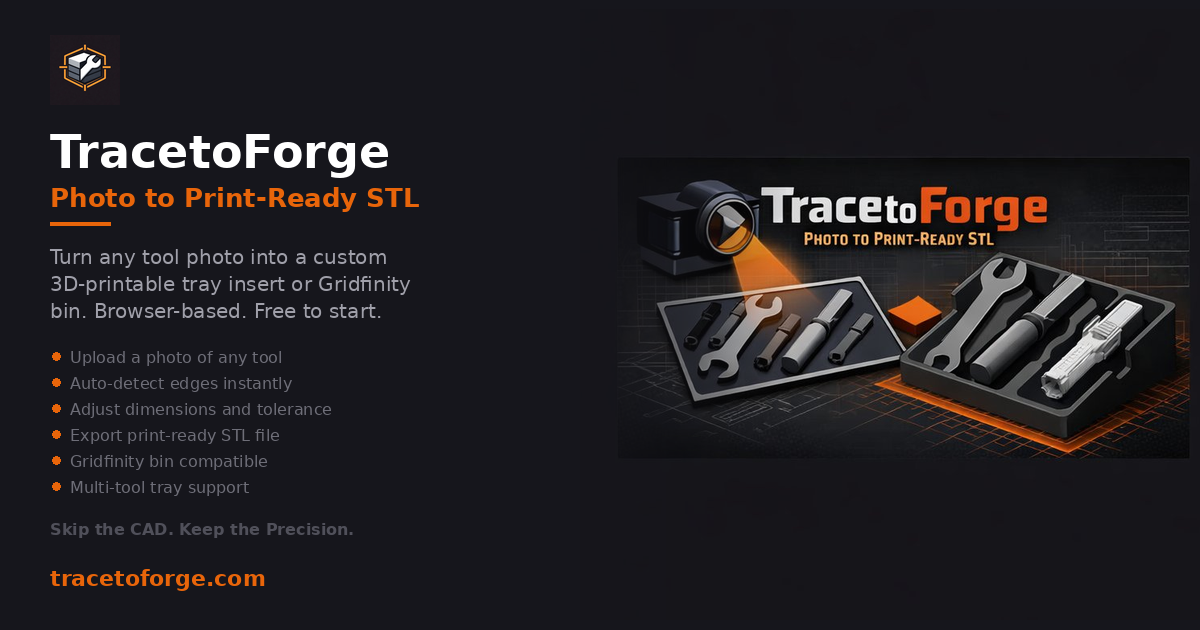
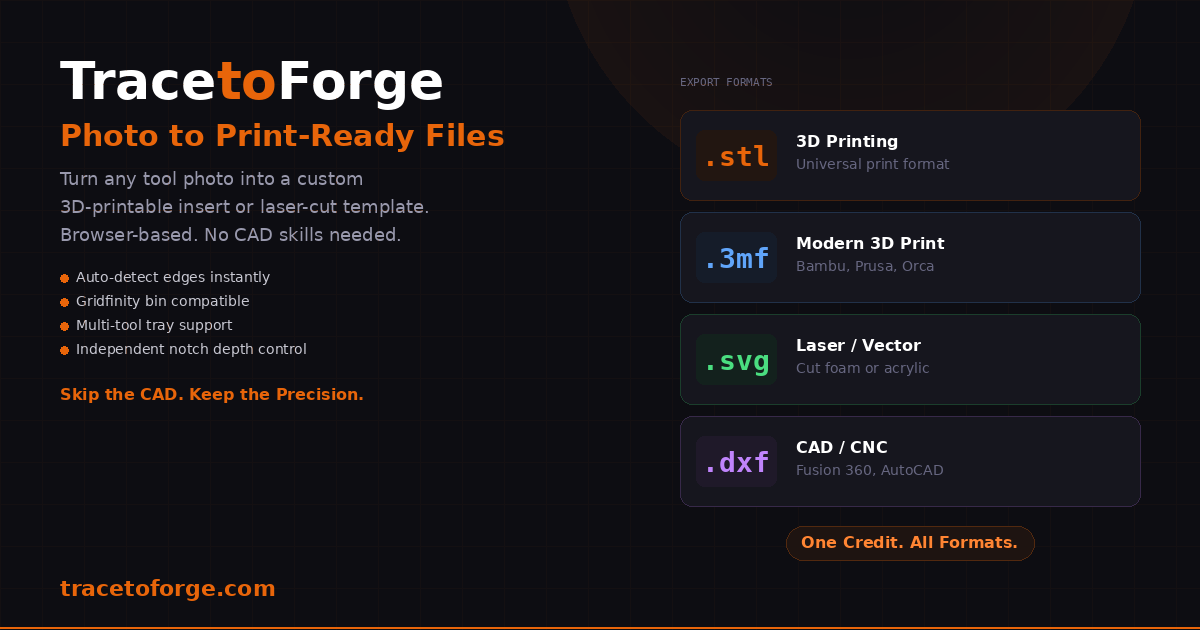
New OG image + updated meta tags for multi-format exports
- New OG image showcasing all 4 export formats (STL, 3MF, SVG, DXF)
- Updated meta description, keywords, OG tags, Twitter card
- Added format-specific SEO keywords (3MF, DXF laser cut, SVG foam)

diff --git a/dist/index.html b/dist/index.html
@@ -7,8 +7,8 @@
     <link rel="apple-touch-icon" href="/icon-512.png" />
     <meta name="viewport" content="width=device-width, initial-scale=1.0" />
     <title>Turn Tool Photos into 3D Printable Inserts | TracetoForge</title>
-    <meta name="description" content="Snap a photo of any tool, auto-trace the outline, and export a print-ready STL tray insert or Gridfinity bin in minutes. No CAD skills needed. Free browser-based 3D print file generator for custom tool organizers, foam replacements, and workshop storage." />
-    <meta name="keywords" content="3D print tool organizer, custom tray insert, Gridfinity bin generator, STL file maker, tool foam insert replacement, photo to STL, tool shadow board, workshop organization, 3D printed tool holder, Milwaukee Packout insert, tool chest organizer, CNC tool tray, custom foam alternative, Gridfinity tool storage, trace tool outline 3D print" />
+    <meta name="description" content="Snap a photo of any tool, auto-trace the outline, and export print-ready STL, 3MF, SVG, or DXF files. Custom tray inserts, Gridfinity bins, laser-cut foam templates in minutes. No CAD skills needed. Free browser-based tool organizer generator." />
+    <meta name="keywords" content="3D print tool organizer, custom tray insert, Gridfinity bin generator, STL file maker, 3MF export, DXF tool outline, SVG laser cut foam, tool foam insert replacement, photo to STL, photo to 3MF, tool shadow board, workshop organization, 3D printed tool holder, Milwaukee Packout insert, tool chest organizer, CNC tool tray, custom foam alternative, Gridfinity tool storage, laser cut tool insert, trace tool outline 3D print" />
     <meta name="author" content="TracetoForge" />
     <meta name="robots" content="index, follow" />
     <link rel="canonical" href="https://tracetoforge.com" />
@@ -16,16 +16,16 @@
     <!-- Open Graph / Facebook -->
     <meta property="og:type" content="website" />
     <meta property="og:url" content="https://tracetoforge.com" />
-    <meta property="og:title" content="TracetoForge - Photo to 3D-Printable Tool Tray Insert Generator" />
-    <meta property="og:description" content="Snap a photo of any tool, auto-trace the outline, and export a print-ready STL. Custom tray inserts and Gridfinity bins in minutes. No CAD skills needed." />
+    <meta property="og:title" content="TracetoForge - Photo to Print-Ready STL, 3MF, SVG & DXF" />
+    <meta property="og:description" content="Snap a photo of any tool, auto-trace the outline, and export STL, 3MF, SVG, or DXF. Custom tray inserts and Gridfinity bins in minutes. No CAD skills needed." />
     <meta property="og:image" content="https://tracetoforge.com/og-image.png" />
     <meta property="og:site_name" content="TracetoForge" />
 
     <!-- Twitter Card -->
     <meta name="twitter:card" content="summary_large_image" />
     <meta name="twitter:url" content="https://tracetoforge.com" />
-    <meta name="twitter:title" content="TracetoForge - Photo to 3D-Printable Tool Tray Insert" />
-    <meta name="twitter:description" content="Snap a photo. Get a print-ready STL. Custom tool tray inserts and Gridfinity bins in minutes." />
+    <meta name="twitter:title" content="TracetoForge - Photo to Print-Ready STL, 3MF, SVG & DXF" />
+    <meta name="twitter:description" content="Snap a photo. Export STL, 3MF, SVG, or DXF. Custom tool inserts and Gridfinity bins in minutes." />
     <meta name="twitter:image" content="https://tracetoforge.com/og-image.png" />
 
     <!-- Structured Data -->

diff --git a/index.html b/index.html
@@ -7,8 +7,8 @@
     <link rel="apple-touch-icon" href="/icon-512.png" />
     <meta name="viewport" content="width=device-width, initial-scale=1.0" />
     <title>Turn Tool Photos into 3D Printable Inserts | TracetoForge</title>
-    <meta name="description" content="Snap a photo of any tool, auto-trace the outline, and export a print-ready STL tray insert or Gridfinity bin in minutes. No CAD skills needed. Free browser-based 3D print file generator for custom tool organizers, foam replacements, and workshop storage." />
-    <meta name="keywords" content="3D print tool organizer, custom tray insert, Gridfinity bin generator, STL file maker, tool foam insert replacement, photo to STL, tool shadow board, workshop organization, 3D printed tool holder, Milwaukee Packout insert, tool chest organizer, CNC tool tray, custom foam alternative, Gridfinity tool storage, trace tool outline 3D print" />
+    <meta name="description" content="Snap a photo of any tool, auto-trace the outline, and export print-ready STL, 3MF, SVG, or DXF files. Custom tray inserts, Gridfinity bins, laser-cut foam templates in minutes. No CAD skills needed. Free browser-based tool organizer generator." />
+    <meta name="keywords" content="3D print tool organizer, custom tray insert, Gridfinity bin generator, STL file maker, 3MF export, DXF tool outline, SVG laser cut foam, tool foam insert replacement, photo to STL, photo to 3MF, tool shadow board, workshop organization, 3D printed tool holder, Milwaukee Packout insert, tool chest organizer, CNC tool tray, custom foam alternative, Gridfinity tool storage, laser cut tool insert, trace tool outline 3D print" />
     <meta name="author" content="TracetoForge" />
     <meta name="robots" content="index, follow" />
     <link rel="canonical" href="https://tracetoforge.com" />
@@ -16,16 +16,16 @@
     <!-- Open Graph / Facebook -->
     <meta property="og:type" content="website" />
     <meta property="og:url" content="https://tracetoforge.com" />
-    <meta property="og:title" content="TracetoForge - Photo to 3D-Printable Tool Tray Insert Generator" />
-    <meta property="og:description" content="Snap a photo of any tool, auto-trace the outline, and export a print-ready STL. Custom tray inserts and Gridfinity bins in minutes. No CAD skills needed." />
+    <meta property="og:title" content="TracetoForge - Photo to Print-Ready STL, 3MF, SVG & DXF" />
+    <meta property="og:description" content="Snap a photo of any tool, auto-trace the outline, and export STL, 3MF, SVG, or DXF. Custom tray inserts and Gridfinity bins in minutes. No CAD skills needed." />
     <meta property="og:image" content="https://tracetoforge.com/og-image.png" />
     <meta property="og:site_name" content="TracetoForge" />
 
     <!-- Twitter Card -->
     <meta name="twitter:card" content="summary_large_image" />
     <meta name="twitter:url" content="https://tracetoforge.com" />
-    <meta name="twitter:title" content="TracetoForge - Photo to 3D-Printable Tool Tray Insert" />
-    <meta name="twitter:description" content="Snap a photo. Get a print-ready STL. Custom tool tray inserts and Gridfinity bins in minutes." />
+    <meta name="twitter:title" content="TracetoForge - Photo to Print-Ready STL, 3MF, SVG & DXF" />
+    <meta name="twitter:description" content="Snap a photo. Export STL, 3MF, SVG, or DXF. Custom tool inserts and Gridfinity bins in minutes." />
     <meta name="twitter:image" content="https://tracetoforge.com/og-image.png" />
 
     <!-- Structured Data -->
